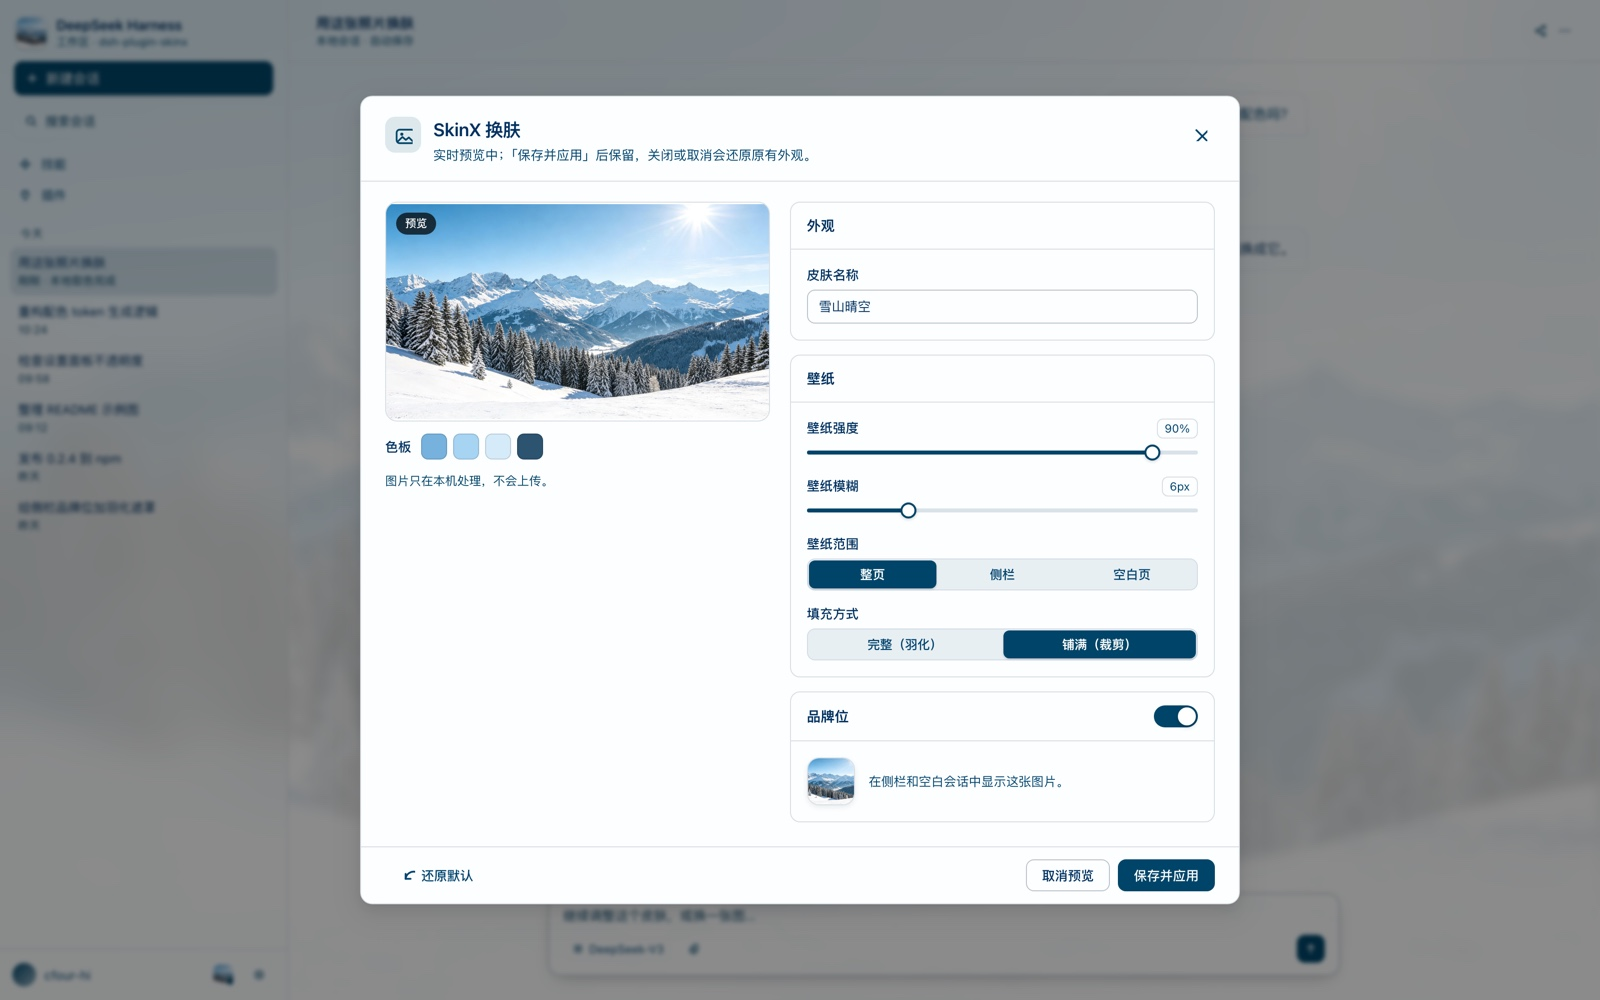
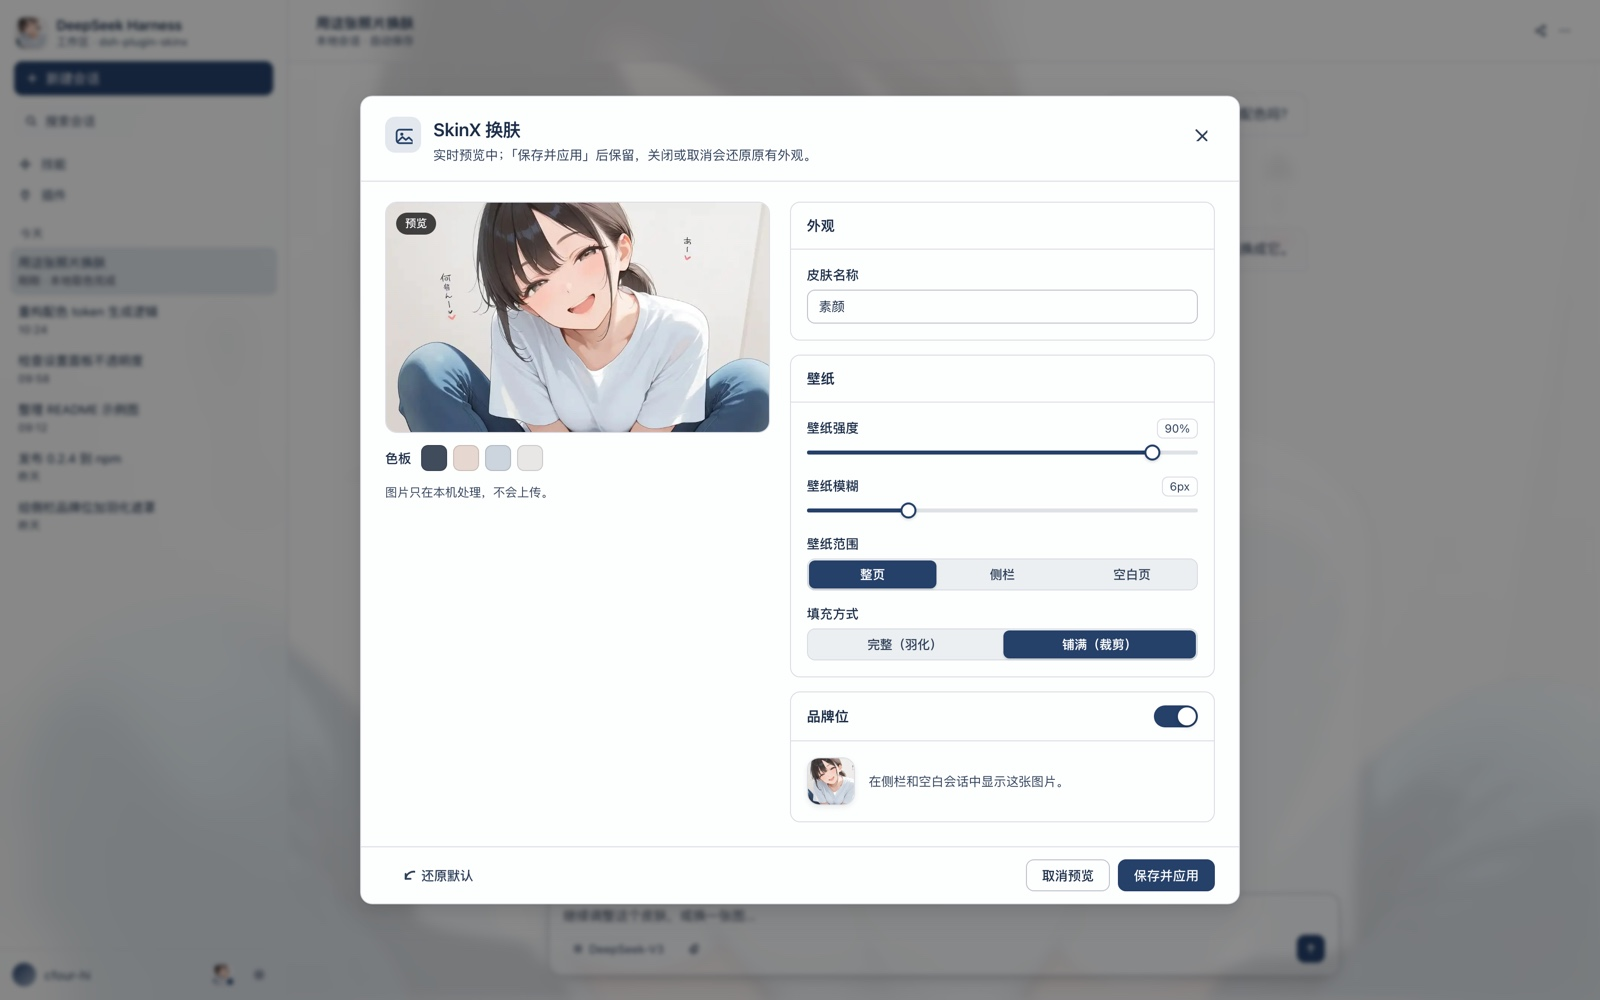
docs: turn the README examples into a gallery
Re-shoot the sample screenshots from the twelve skin pictures now in
docs/examples/source, keeping the six that stay readable as wallpapers:
one full-page shot, a row of three skins across three color temperatures,
and the preview / saved dialogs side by side.

- render six scenes per locale and add a 1200 px output width for the grid
- name the skins from the source file so the preview dialog and the saved
  cards agree with the picture that is shown
- fill the demo reply with the shot's own strength, blur and scope instead
  of hard-coding 90% / 6 px
- drop the source pictures no scene uses

diff --git a/scripts/docs-shots/page.js b/scripts/docs-shots/page.js
@@ -73,13 +73,11 @@ const COPY = {
     userMessage: '把这张照片设成壁纸，范围整页，品牌位也换成它。',
     reply: [
       '已在本机取色：最鲜艳的颜色成为品牌色，其余配色用于表面和标签，文字对比度按当前明暗重新校正。',
-      '壁纸强度 90%、模糊 6px、范围整页；侧栏品牌位和按钮缩略图也同步换成了这张图。',
+      '壁纸强度 {strength}%、模糊 {blur}px、范围{scope}；侧栏品牌位和按钮缩略图也同步换成了这张图。',
     ],
     chips: ['本地取色', '整页壁纸', '品牌位'],
     placeholder: '继续调整这个皮肤，或换一张图…',
     model: 'DeepSeek-V3',
-    skinName: '霓虹夜街',
-    cardNames: ['落日山谷', '雾林湖岸', '霓虹夜街'],
     cardTime: '今天 14:32',
   },
   en: {
@@ -105,15 +103,23 @@ const COPY = {
     userMessage: 'Use this picture as the wallpaper — whole page — and the brand mark too.',
     reply: [
       'Palette extracted on this device: the most vivid color becomes the brand, the rest seed surfaces and labels, and label contrast is corrected for the current scheme.',
-      'Wallpaper strength 90%, blur 6 px, scope whole page; the sidebar brand mark and the dock thumbnail now use the same picture.',
+      'Wallpaper strength {strength}%, blur {blur} px, scope {scope}; the sidebar brand mark and the dock thumbnail now use the same picture.',
     ],
     chips: ['Local palette', 'Whole-page wallpaper', 'Brand mark'],
     placeholder: 'Keep tuning this skin, or drop another picture…',
     model: 'DeepSeek-V3',
-    skinName: 'Neon street',
-    cardNames: ['Sunset valley', 'Misty lake', 'Neon street'],
     cardTime: 'today 14:32',
   },
+}
+
+/** Display names for the sample skins in docs/examples/source. */
+const SKIN_NAMES = {
+  'skin-mwdo0yl8-9u3idy.webp': { zh: '绯樱', en: 'Crimson bloom' },
+  'skin-mweb8w4g-kd0wjy.webp': { zh: '紫夜', en: 'Violet night' },
+  'skin-mwep9zx6-94ksiu.webp': { zh: '蓝雪', en: 'Blue bloom' },
+  'skin-mwef1qar-vu5fod.webp': { zh: '素颜', en: 'Soft portrait' },
+  'skin-mwep1hii-hwl2fa.webp': { zh: '雪山晴空', en: 'Snowy peak' },
+  'skin-mwep7vwr-oulbsh.webp': { zh: '霜华', en: 'Frost' },
 }
 
 /* -------------------------------------------------------------------------- */
@@ -132,7 +138,22 @@ const fit = params.get('fit') ?? 'cover'
 const brandMark = params.get('brandMark') !== '0'
 const cardPaths = (params.get('cards') ?? '').split('|').filter((entry) => entry !== '')
 const activeCard = Number(params.get('active') ?? '0')
-const skinName = params.get('name') ?? COPY[locale].skinName
+const skinNameFor = (path) => {
+  const name = SKIN_NAMES[path.split('/').pop()]
+  return name?.[locale] ?? (locale === 'zh' ? '皮肤' : 'Skin')
+}
+const skinName = params.get('name') ?? skinNameFor(photoPath)
+
+const SCOPE_LABEL = {
+  zh: { full: '整页', sidebar: '侧栏', blank: '空白页' },
+  en: { full: 'whole page', sidebar: 'sidebar', blank: 'blank session' },
+}
+/** Keep the demo conversation in sync with the parameters of this shot. */
+const filled = (text) =>
+  text
+    .replace('{strength}', String(Math.round((1 - opacity) / 0.002)))
+    .replace('{blur}', String(blur))
+    .replace('{scope}', SCOPE_LABEL[locale][scope] ?? '')
 
 const copy = COPY[locale]
 const dictionary = locale === 'zh' ? zh : en
@@ -354,7 +375,7 @@ function shellHtml() {
         <div class="reply">
           <div class="reply-head"><span class="reply-dot"></span>Harness</div>
           <p class="paragraph">${copy.reply[0]}</p>
-          <p class="paragraph is-secondary">${copy.reply[1]}</p>
+          <p class="paragraph is-secondary">${filled(copy.reply[1])}</p>
           <div class="chips">${copy.chips.map((chip) => `<span class="chip">${chip}</span>`).join('')}</div>
         </div>
       </div>
@@ -541,10 +562,10 @@ function skinCardHtml({ url, name, active }) {
 }
 
 function savedDialog() {
-  const cards = copy.cardNames.map((name, index) =>
+  const cards = cardPaths.map((path, index) =>
     skinCardHtml({
-      url: cardPaths[index] === undefined ? photoUrl : assetUrl(`../../${cardPaths[index]}`),
-      name,
+      url: assetUrl(`../../${path}`),
+      name: skinNameFor(path),
       active: index === activeCard,
     }),
   )

diff --git a/README.en.md b/README.en.md
@@ -22,30 +22,34 @@ picture as a wallpaper, a brand mark, and a dock thumbnail.
 ## Examples
 
 One picture is the wallpaper, the brand mark, and the source of the palette.
-The three shots below are rendered locally by the plugin's own palette and
-token code:
+Every shot below is rendered locally by the plugin's own palette and token code;
+click one to open the full-size image.
 
 <p align="center">
-  <img src="docs/examples/wallpaper.en.jpg" alt="Whole-page wallpaper, sidebar brand mark and a warm light theme" width="880" />
+  <a href="docs/examples/wallpaper.en.jpg"><img src="docs/examples/wallpaper.en.jpg" alt="Whole-page wallpaper, sidebar brand mark and a dark theme" width="880" /></a>
 </p>
 
-<p align="center"><sub>Whole-page wallpaper · sidebar brand mark · dock thumbnail (light, from a sunset valley)</sub></p>
+<p align="center"><sub><strong>Crimson bloom</strong> · whole-page wallpaper · sidebar brand mark · dock thumbnail (dark)</sub></p>
 
 <p align="center">
-  <img src="docs/examples/preview.en.jpg" alt="The live preview dialog after dropping a picture" width="880" />
+  <a href="docs/examples/skin-1.en.jpg"><img src="docs/examples/skin-1.en.jpg" alt="Violet night: a dark theme from a purple illustration" width="284" /></a>
+  <a href="docs/examples/skin-2.en.jpg"><img src="docs/examples/skin-2.en.jpg" alt="Blue bloom: a dark theme from a cool-toned illustration" width="284" /></a>
+  <a href="docs/examples/skin-3.en.jpg"><img src="docs/examples/skin-3.en.jpg" alt="Snowy peak: a light theme from a landscape" width="284" /></a>
 </p>
 
-<p align="center"><sub>Live preview after dropping a picture: palette, strength, blur, scope and fill mode (dark, from a snowy peak)</sub></p>
+<p align="center"><sub><strong>Violet night</strong> (dark) · <strong>Blue bloom</strong> (dark) · <strong>Snowy peak</strong> (light) — one layout, three color temperatures</sub></p>
 
 <p align="center">
-  <img src="docs/examples/saved.en.jpg" alt="Saved skins and the current-skin controls" width="880" />
+  <a href="docs/examples/preview.en.jpg"><img src="docs/examples/preview.en.jpg" alt="The live preview dialog after dropping a picture" width="430" /></a>
+  <a href="docs/examples/saved.en.jpg"><img src="docs/examples/saved.en.jpg" alt="Saved skins and the current-skin controls" width="430" /></a>
 </p>
 
-<p align="center"><sub>Saved skins: click a cover to apply, click the name to rename, hover to delete (from a neon street)</sub></p>
+<p align="center"><sub>Live preview after dropping a picture: palette, strength, blur, scope and fill mode · Saved skins: click a cover to apply, click the name to rename, hover to delete</sub></p>
 
-The images live in `docs/examples/` and are regenerated by `pnpm run docs:shots`
-in headless Chrome; the host shell around the dialog is an illustrative
-layout, while the palette, wallpaper and dialog styling come from the plugin.
+The images live in `docs/examples/`, the source pictures in
+`docs/examples/source/`, and both are regenerated by `pnpm run docs:shots` in
+headless Chrome (the host shell around the dialog is an illustrative layout,
+while the palette, wallpaper and dialog styling come from the plugin).
 
 ## What it does
 

diff --git a/README.md b/README.md
@@ -19,27 +19,30 @@ SkinX 读取一张图片，在本地提取配色，推导明暗两套主题 toke
 
 ## 示例
 
-同一张图片既是壁纸、品牌位，也是整套配色的来源。下面三张由插件自身的取色与 token 代码在本地渲染：
+同一张图片既是壁纸、品牌位，也是整套配色的来源。下面所有截图都由插件自身的取色与 token 代码在本地渲染，点开可看原图。
 
 <p align="center">
-  <img src="docs/examples/wallpaper.zh.jpg" alt="整页壁纸、侧栏品牌位与取色后的暗色主题" width="880" />
+  <a href="docs/examples/wallpaper.zh.jpg"><img src="docs/examples/wallpaper.zh.jpg" alt="整页壁纸、侧栏品牌位与取色后的暗色主题" width="880" /></a>
 </p>
 
-<p align="center"><sub>整页壁纸 · 侧栏品牌位 · 按钮缩略图（暗色，取自霓虹夜街）</sub></p>
+<p align="center"><sub><strong>绯樱</strong> · 整页壁纸 · 侧栏品牌位 · Dock 缩略图（暗色）</sub></p>
 
 <p align="center">
-  <img src="docs/examples/preview.zh.jpg" alt="拖入图片后的实时预览对话框" width="880" />
+  <a href="docs/examples/skin-1.zh.jpg"><img src="docs/examples/skin-1.zh.jpg" alt="紫夜：从紫色插画得到的暗色主题" width="284" /></a>
+  <a href="docs/examples/skin-2.zh.jpg"><img src="docs/examples/skin-2.zh.jpg" alt="蓝雪：从冷色插画得到的暗色主题" width="284" /></a>
+  <a href="docs/examples/skin-3.zh.jpg"><img src="docs/examples/skin-3.zh.jpg" alt="雪山晴空：从风景照得到的亮色主题" width="284" /></a>
 </p>
 
-<p align="center"><sub>拖入图片后的实时预览：色板、强度、模糊、范围与填充方式（亮色，取自雪山晴空）</sub></p>
+<p align="center"><sub><strong>紫夜</strong>（暗色） · <strong>蓝雪</strong>（暗色） · <strong>雪山晴空</strong>（亮色）—— 同一套布局，三张图给出三种色温</sub></p>
 
 <p align="center">
-  <img src="docs/examples/saved.zh.jpg" alt="已保存的皮肤列表与当前皮肤设置" width="880" />
+  <a href="docs/examples/preview.zh.jpg"><img src="docs/examples/preview.zh.jpg" alt="拖入图片后的实时预览对话框" width="430" /></a>
+  <a href="docs/examples/saved.zh.jpg"><img src="docs/examples/saved.zh.jpg" alt="已保存的皮肤列表与当前皮肤设置" width="430" /></a>
 </p>
 
-<p align="center"><sub>已保存的皮肤：点击封面应用、点击名称重命名、悬停删除（取自雾林湖岸）</sub></p>
+<p align="center"><sub>拖入图片即预览：色板、强度、模糊、范围与填充方式 · 已保存的皮肤：点击封面应用、点击名称重命名、悬停删除</sub></p>
 
-示例图存放在 `docs/examples/`，用 `pnpm run docs:shots` 在无头 Chrome 中重新生成；截图里的宿主界面是示意布局，配色、壁纸与对话框样式都来自插件本身。
+示例图存放在 `docs/examples/`，源图在 `docs/examples/source/`，用 `pnpm run docs:shots` 在无头 Chrome 中重新生成（截图里的宿主界面是示意布局，配色、壁纸与对话框样式都来自插件本身）。
 
 ## 功能
 
